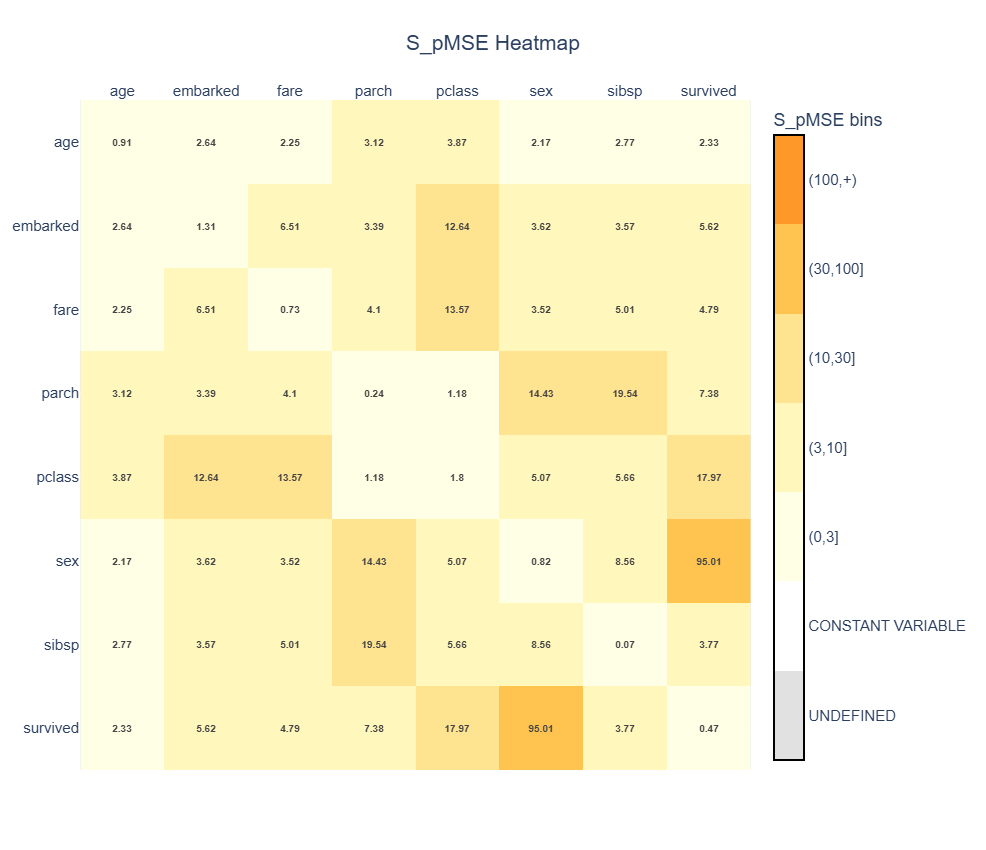
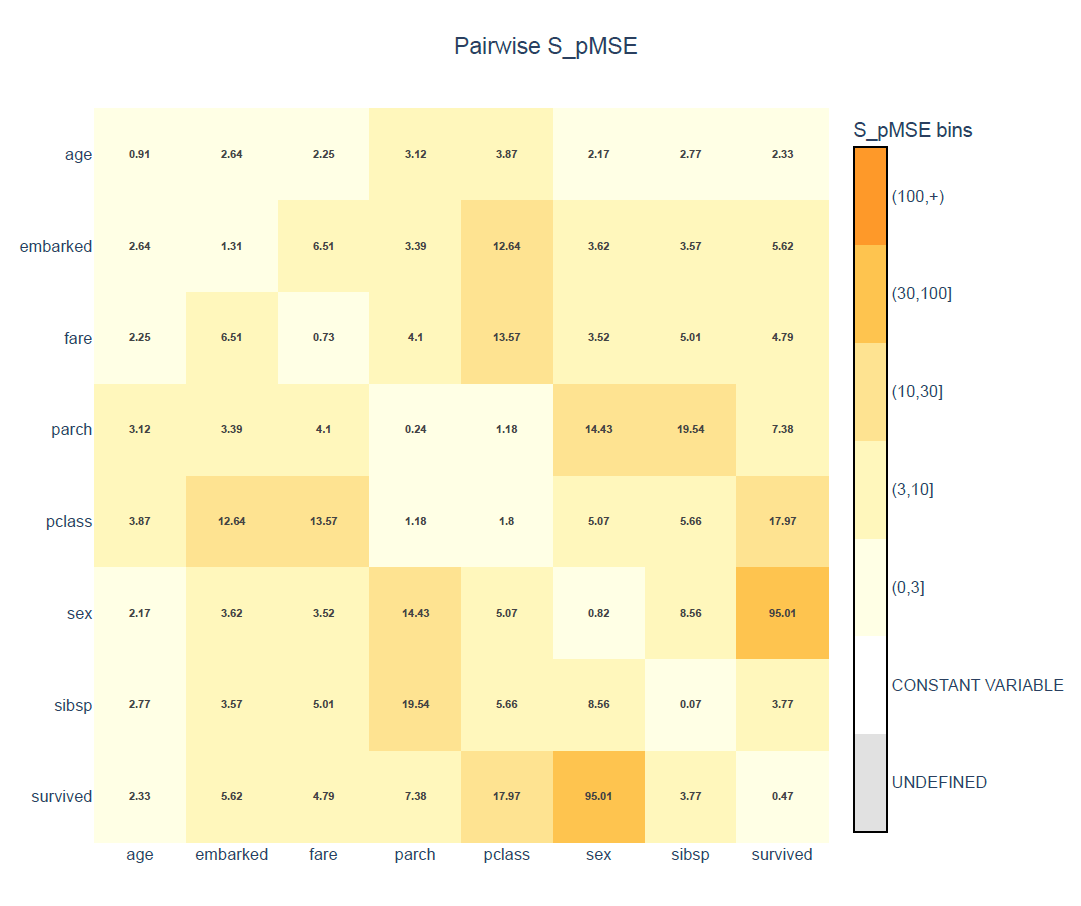
Made the text better

diff --git a/docs/source/examples/changing_the_synthesis_order.md b/docs/source/examples/changing_the_synthesis_order.md
@@ -8,7 +8,7 @@ When evaluating the synthetic data using the S_pMSE heatmap, you may have notice
 Reminder: the S_pMSE is influenced by the number of observations in the original and synthetic datasets. Generating more synthetic rows may result in larger S_pMSE values, even if the underlying quality of the synthesis has not changed, because small differences can be estimated more precisely. Therefore, S_pMSE values are most meaningful when comparing synthesis methods or parameter settings on datasets of the same size.
 ```
 
-Although the univariate distributions closely matched those of the original dataset, the S_pMSE heatmap tells a different story. Most relationships are preserved well. Where the variables embarked and embark_town show consistently the highest S_pMSE values.
+Although the univariate distributions closely matched those of the original dataset, the S_pMSE heatmap tells a different story. Most relationships are preserved well. Where the variables `embarked` and `embark_town` show consistently the highest S_pMSE values.
 
 This does not necessarily mean that the synthesiser performed poorly. Instead, it might suggests that the default synthesis settings are not optimal for this dataset.
 
@@ -96,7 +96,7 @@ More information about the sequential synthesis procedure is available in [User 
 
 ## Choose a different order
 
-Looking at the original S_pMSE heatmap, many of the largest values involve `fare`. For example, the relationships between `fare` and `age`, `deck`, `embark` all have large S_pMSE values.
+Looking at the original S_pMSE heatmap, some of the largest values involve `fare`. For example, the relationships between `fare` and `age`, `deck`, `embarked_town` all have large S_pMSE values.
 
 A simple strategy is therefore to move `fare` to the end of the synthesis order. Since variables are synthesised sequentially, moving `fare` to the end of the synthesis order allows its synthesis model to use all other variables as predictors. This additional information may help preserve relationships involving `fare`.
 
@@ -154,9 +154,8 @@ plot_new = plot_spmse(spmse_new, show_plot=True)
 ```
 
 ![S_pMSE heatmap of Titanic dataset with new column order](../images/titanic_spmse_2.png)
-The new heatmap shows that changing the synthesis order improved several relationships involving `fare`. For example, the S_pMSE value between `fare` and `deck` decreased from approximately 6.06 to 4.47.
+The new heatmap shows that changing the synthesis order improved several relationships involving `fare`. Some values appear to be better, whereas some are actually less preserved.
 
-The improvement is encouraging, but `fare` is still involved in many of the largest S_pMSE values. In addition, the updated heatmap reveals that some relationships involving `age` are now less preserved.
 
 This illustrates an important point: changing the synthesis order is rarely a one-shot optimisation. Instead, it is often useful to make a small change, evaluate the result, and then decide on the next refinement.
 
@@ -195,7 +194,7 @@ plot_final = plot_spmse(spmse_final, show_plot=True)
 ![S_pMSE heatmap of Titanic dataset with another column order](../images/titanic_spmse_3.png)
 The resulting heatmap shows another improvement. All relationships involving `embark_town` are better preserved. 
 
-Interestingly, moving `embark_town` after `fare` also improves the relationships involving `fare`. For example, the S_pMSE value for the relationship between `fare` and `survived` originally was approximately 53 and is now 19. For `fare` and `pclass` it was 54 and now is 17. This suggests that using `embark_town` as a predictor for `fare` was not beneficial for this dataset. More generally, adding predictors does not always improve a synthesis model. Variables that contain little useful information or introduce additional noise can sometimes reduce synthesis quality.
+Interestingly, moving `embark_town` after `fare` also improves the relationships involving `fare`. This suggests that using `embark_town` as a predictor for `fare` was not beneficial for this dataset. More generally, adding predictors does not always improve a synthesis model. Variables that contain little useful information or introduce additional noise can sometimes reduce synthesis quality.
 
 While there is still room for improvement, this example has demonstrated how changing the synthesis order can make a big impact on the quality of the synthesis. Rather than searching for a perfect synthesis order from the outset, it is often more effective to refine the order iteratively: inspect the utility metrics, identify variables involved in poorly preserved relationships, adjust the order, and evaluate again.
 
